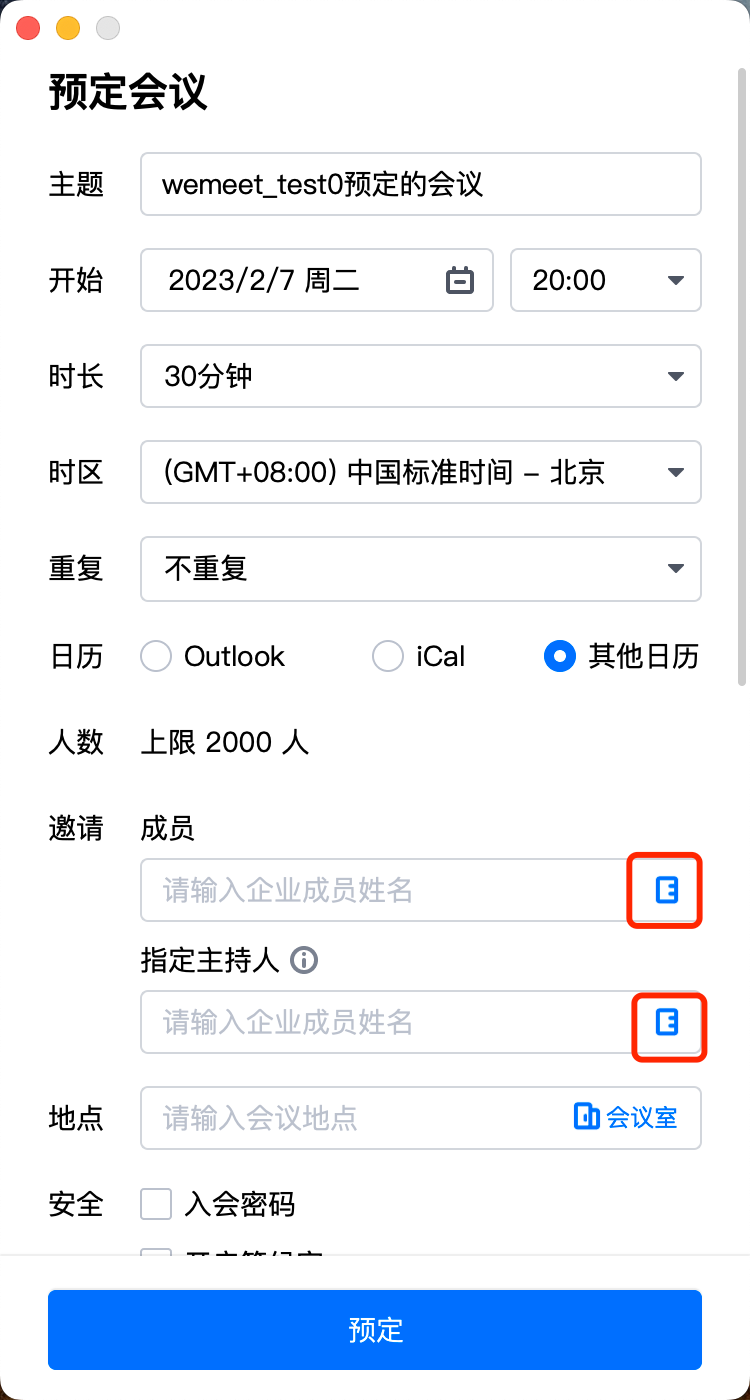
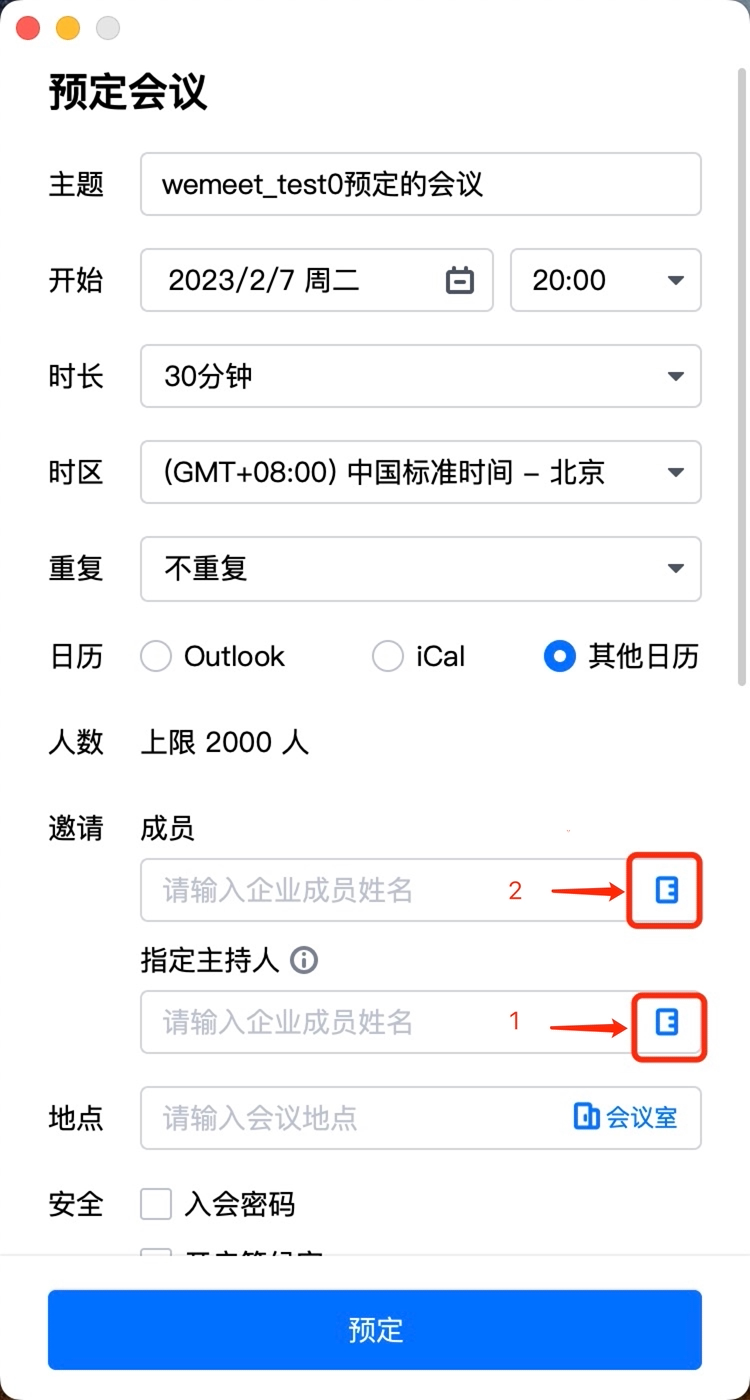
optimize doc

diff --git a/Docs/Common/TencentMeetingSDK（TMSDK）接口参考文档.md b/Docs/Common/TencentMeetingSDK（TMSDK）接口参考文档.md
@@ -219,11 +219,11 @@ in_meeting_service = tm_sdk.getInMeetingService()   //获取InMeetingService
   - users：表示新增的用户id列表，**不能包含已有用户id**，此用户id是客户侧账户体系中的用户唯一标识
   - user_type：表示添加用户场景类型
   
-| user_type | 说明                                         |
-|-----------|--------------------------------------------|
-| 1         | 预定会议添加主持人（仅使用SDK的预定会议界面时有效，接入方自定义预定会议界面无效） |
-| 2         | 预定会议添加成员（仅使用SDK的预定会议界面有时效，接入方自定义预定会议界面无效）  |
-| 3         | 会中添加会议成员 （仅会议中时有效）                         |
+| user_type | 说明                                                                                        |
+|-----------|-------------------------------------------------------------------------------------------|
+| 1         | 预定会议添加主持人，响应`PreMeetingCallback.onShowAddressBook`回调时使用。（仅使用SDK的预定会议界面时有效，接入方自定义预定会议界面无效） |
+| 2         | 预定会议添加成员，响应`PreMeetingCallback.onShowAddressBook`回调时使用。（仅使用SDK的预定会议界面有时效，接入方自定义预定会议界面无效）  |
+| 3         | 会中添加会议成员，可在响应`InMeetingCallback.onInviteUsers`回调时使用，也可独立使用。 （仅会议中时有效）                     |
 
 
 ### getAccountService
@@ -733,13 +733,17 @@ PreMeetingCallback 需实现以下成员函数：
 ### onShowAddressBook
 * 函数形式：**void onShowAddressBook(int user_type, string json_data)**
 * 可用版本：>= 3.6.401
-* 说明：SDK中打开通讯录的回调，用作接入方定制通讯录。
-* 详细说明：在`PreMeetingService.enableAddressBookCallback`函数参数enable设置为true的情况下，在SDK预定会议界面中，用户点击通讯录邀请成员、指定主持人时，会收到该回调。
+* 说明：
+  * 用户在SDK界面中打开通讯录的回调，可用作接入方定制通讯录的通知。
+  * 在`PreMeetingService.enableAddressBookCallback`函数参数enable设置为true的情况下，在SDK预定会议界面中，用户点击通讯录邀请成员、指定主持人时，会收到该回调。
+  * 接入方响应回调后，可展示自定义通讯录，在自定义通讯录中添加成员要通知到SDK时，可调用`TMSDK.addUsersWithParam`函数来实现。
 
-| 参数名       | 参数类型   | 参数说明                                                              |
-|-----------|--------|-------------------------------------------------------------------|
-| user_type | int    | 1：SDK预定会议界面中，点击`指定主持人`下的通讯录按钮的回调<br>2：SDK预定会议界面中，点击`成员`下的通讯录按钮的回调 |
-| json_data | string | 预定会议中已经选择的用户user_id的列表，JSON格式字符串                                  |
+| 参数名       | 参数类型   | 参数说明                                                                         |
+|-----------|--------|------------------------------------------------------------------------------|
+| user_type | int    | 1：SDK预定会议界面中，点击`指定主持人`下的通讯录按钮的回调<br>2：SDK预定会议界面中，点击`成员`下的通讯录按钮的回调<br>对应关系如下图 |
+| json_data | string | 预定会议中已经选择的用户id的列表，JSON格式字符串                                                  |
+
+<img alt="img.png" src="images/schedule_meeting_address_book.png" width="450"/>
 
 * json_data示例：
 ```json
@@ -964,7 +968,9 @@ invite_info内容
 ### onInviteUsers
 * 函数形式：**void onInviteUsers(string json_data)**
 * 可用版本：>= 3.6.401
-* 说明：用户在会议中界面点击右侧成员列表上方的添加成员按钮的的回调。
+* 说明：
+  * 用户在会议中界面点击右侧成员列表上方的添加成员按钮的的回调。
+  * 接入方响应回调后，可展示自定义通讯录，在自定义通讯录中添加成员要通知到SDK时，可调用`TMSDK.addUsersWithParam`函数来实现。
 * 参数说明：
 
 | 参数名       | 参数类型   | 参数说明                                        |
